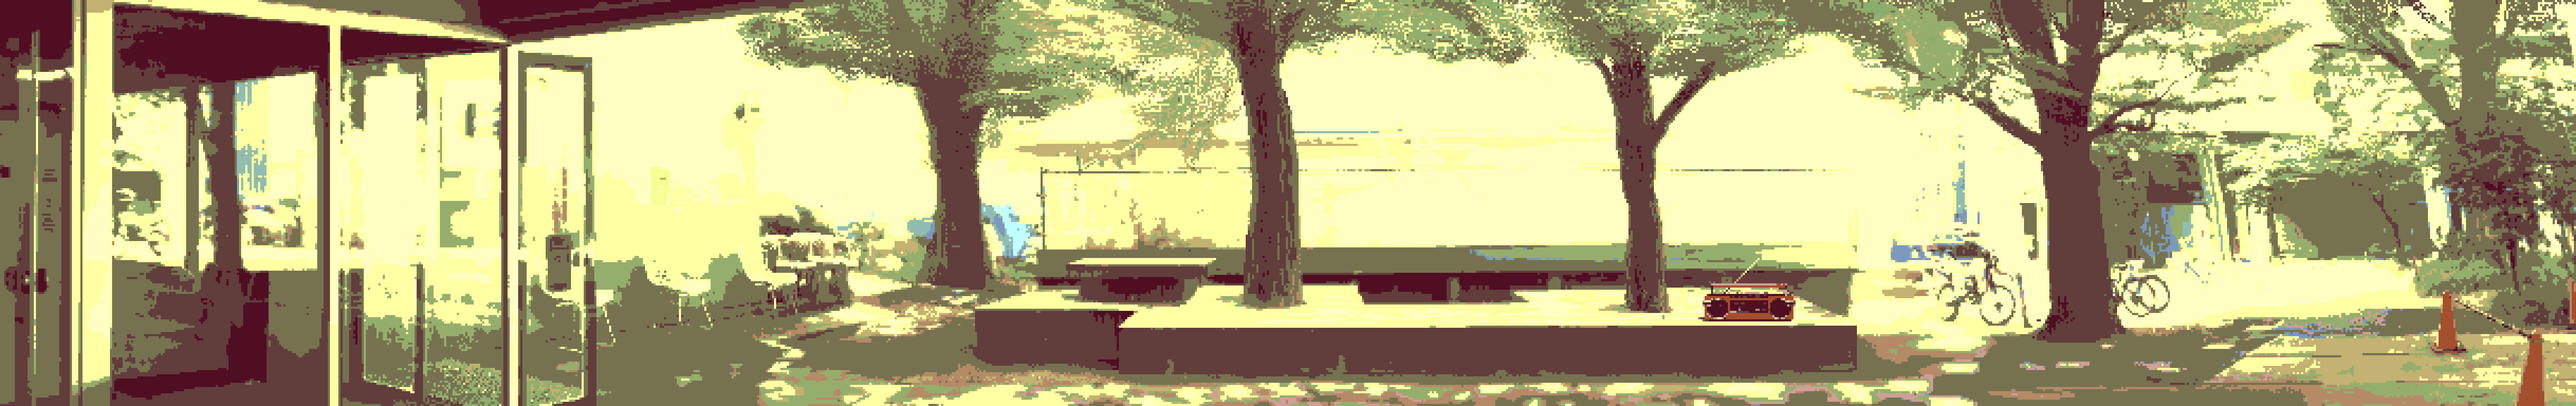
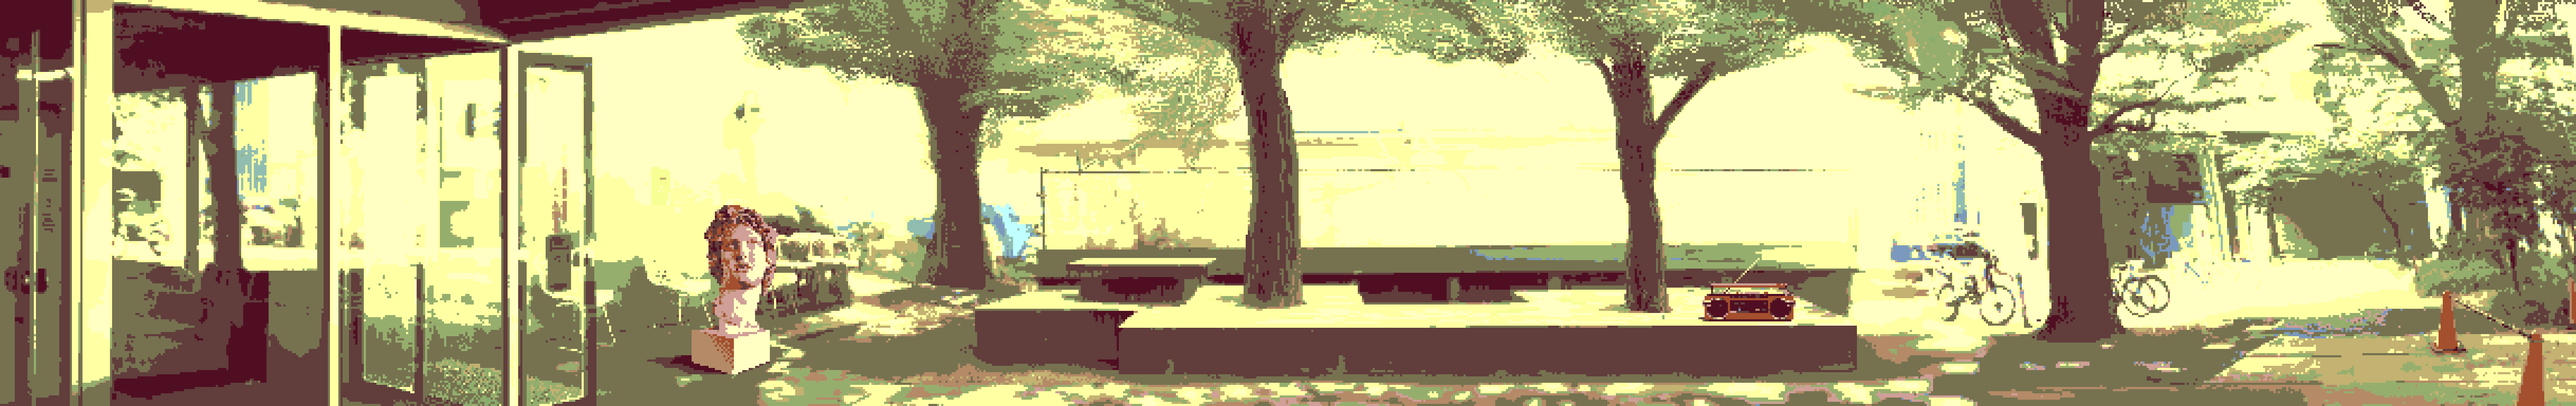
'helios'

Changed region(s): [[0.2496, 0.5, 0.312, 0.9375]]

diff --git a/static/game.js b/static/game.js
@@ -73,11 +73,10 @@ let textcolor = "rgb(118,114,80)";
 //let textcolor = "rgb(176,104,76)";
 let textfont = '40px misaki2';
 let margin = 60;
-let oneline = 6;
+let oneline = 6.5;
 let num, len, lines, chr;
 let bufferSize = 0;
 let buffer = '';
-let chatarray = [];
 
 let ChatWriter = function (player) {
     if (player.msg === '') {return}
@@ -89,28 +88,52 @@ let ChatWriter = function (player) {
 
     len = player.msg.length;
     lines = Math.ceil(len / oneline);
-    for (let i = 0 ,bufferLength = 0; i < len; i++) {
+    let chatarray = [];
+    let lineSizeArray = [];
+    //全文字の繰り返し処理
+    for (let i = 0, buffer_i = 0; i < len; i++) {
         buffer += player.msg.charAt(i);
-        chr = buffer.charCodeAt(bufferLength);
-        if ((chr >= 0x00 && chr < 0x81) ||
-            (chr === 0xf8f0) ||
-            (chr >= 0xff61 && chr < 0xffa0) ||
-            (chr >= 0xf8f1 && chr < 0xf8f4)) {
-            //半角文字の場合は0.5を加算
-            bufferSize += 0.5;
+        chr = buffer.charCodeAt(buffer_i);
+        //---------------------------
+        //エスケープシーケンス
+        if (chr === 92 && player.msg.charAt(i+1) === 'n') {
+            i++;
+            buffer = buffer.slice(0, -1);
+            //if (buffer !== '') {
+                buffer = SpaceCut(buffer);
+                lineSizeArray.push(bufferSize);
+                chatarray.push(buffer);
+                buffer = '';
+                bufferSize = 0;
+                buffer_i = 0;
+            //}
         } else {
-            //それ以外の文字の場合は1を加算
-            bufferSize += 1.0;
+            //---------------------------
+            if ((chr >= 0x00 && chr < 0x81) ||
+                (chr === 0xf8f0) ||
+                (chr >= 0xff61 && chr < 0xffa0) ||
+                (chr >= 0xf8f1 && chr < 0xf8f4)) {
+                //半角文字の場合は0.5を加算
+                bufferSize += 0.5;
+            } else {
+                //それ以外の文字の場合は1を加算
+                bufferSize += 1.0;
+            }
+            buffer_i++;
+            //改行処理
+            if (bufferSize >= oneline && i !== len - 1) {
+                buffer = SpaceCut(buffer);
+                lineSizeArray.push(bufferSize);
+                chatarray.push(buffer);
+                buffer = '';
+                bufferSize = 0;
+                buffer_i = 0;
+            }
         }
-        bufferLength++
-        if (bufferSize >= oneline && i !== len - 1) {
-            chatarray.push(buffer);
-            buffer = '';
-            bufferSize = 0;
-            bufferLength = 0;
-        }
-        
     }
+    //最後の一行
+    buffer = SpaceCut(buffer);
+    lineSizeArray.push(bufferSize);
     chatarray.push(buffer);
     buffer = '';
     bufferSize = 0;
@@ -121,9 +144,31 @@ let ChatWriter = function (player) {
     context.drawImage(chatboxUnder, num + DisplayCenter - (oneline * 20) -20, player.y - margin -30 -5 + textfloater);
 
     for (let i = 0; i < chatarray.length; i++) {
-        context.fillText(chatarray[i], num + DisplayCenter - oneline * 20, player.y - margin + DisplayTop - (chatarray.length - i) * 40 + textfloater);
+        //console.log(lineSizeArray[i]);
+        context.fillText(chatarray[i], num + DisplayCenter - lineSizeArray[i] * 20, player.y - margin + DisplayTop - (chatarray.length - i) * 40 + textfloater);
     }
     chatarray = [];
+}
+
+let SpaceCut= function (str) {
+    if (str.slice(-1) === ' ') {//末尾
+        str = str.slice(0, -1);
+        bufferSize -= 0.5;
+        return SpaceCut(str);
+    } else if (str.slice(-1) === '　') {
+        str = str.slice(0, -1);
+        bufferSize -= 1.0;
+        return SpaceCut(str);
+    } else if (str.slice(0, 1) === ' ') {//先頭
+        str = str.slice(1);
+        bufferSize -= 0.5;
+        return SpaceCut(str);
+    } else if (str.slice(0, 1) === ' ') {
+        str = str.slice(1);
+        bufferSize -= 1.0;
+        return SpaceCut(str);
+    }
+    return str;
 }
 
 let NameWriter = function (player) {
@@ -165,6 +210,7 @@ let isDone = false;
 socket.on('musicresponse', function (list, name) {
     playList = list;
     whoserequest = name;
+    radioPageUpdate();
     console.log(list);
 });
 
@@ -225,17 +271,17 @@ function onPlayerStateChange(event) {
         radioObject.msg = "Next No." + nextNumber+1;
     }
     if (event.data == YT.PlayerState.BUFFERING) {
-        radioObject.msg = "  LOADING..";
+        radioObject.msg = "LOADING..";
     }
     if (event.data == YT.PlayerState.CUED) {
-        radioObject.msg = "    READY";
+        radioObject.msg = "READY";
     }
     if (event.data == YT.PlayerState.PLAYING) {
         radioObject.msg = "♪♪♪♪♪♪";
         isPlaying = true;
     }
     if (event.data == YT.PlayerState.PAUSED) {
-        radioObject.msg = "    PAUSE";
+        radioObject.msg = "PAUSED";
     }
 }
 
@@ -306,14 +352,33 @@ $('#select').click(function () {
             return;
     }
 });
-
+//------------------------------
+//         ヘリオス像
+//------------------------------
+let helios = {
+    x: 0,
+    y: 540,
+    msg: 'Welcome to\\nSmoking Cyber Space!',
+}
+let heliosOK = function () {
+    if (-130 < myplayerpos && myplayerpos < 130) return true;
+    else if (-425 === myplayerpos) {
+        helios.msg = 'There is no\\nway.'
+        return true;
+    }
+    else if (-420 === myplayerpos) {
+        helios.msg = 'Welcome to\\nSmoking Cyber Space!';
+        return false;
+    }
+    else return false;
+}
 //-------------------------------
 //       ラジオオブジェクト
 //-------------------------------
 let radioObject = {
     x: 795,
     y: 650,
-    msg: ' Press A key',
+    msg: 'Press B key',
     Pages: 1,
 }
 let whatPlaying = function () {
@@ -328,15 +393,20 @@ let radioOK = function () {
     if (680 < myplayerpos && myplayerpos < 910) return true;
     else return false;
 }
+let radioPageUpdate = function () {
+    if (radioObject.Pages === 2)
+        radioObject.msg = "There are " + playList.length + "\\nrequests this week.Play with START key.";
+}
+
 let radioMessenger = function () {
     switch (radioObject.Pages) {
         case 1: {
-            radioObject.msg = "There are " + playList.length + " requests this week.Play with START key.";
+            radioObject.msg = "There are " + playList.length + "\\nrequests this week.Play with START key.";
             radioObject.Pages++;
         } break;
         case 2: {
            // if (isSmartPhone()) {
-                radioObject.msg = "Change the number with SELECT key.";
+                radioObject.msg = "Change the\\nnumber with\\nSELECT key.";
                 radioObject.Pages++;
            // } else {
            //     radioObject.msg = "Play & Pausewith SELECT key.";
@@ -344,7 +414,7 @@ let radioMessenger = function () {
            // }
         } break;
         case 3: {
-            radioObject.msg = "You can request music bysending YouTube URL.";
+            radioObject.msg = "You can\\nrequest music by sending\\nYouTube URL.";
             radioObject.Pages++;
             //if (isSmartPhone()) radioObject.Pages = 5;
         } break;
@@ -384,6 +454,8 @@ socket.on('state', function (players, ) {
             context.fillStyle = textcolor;
             if (isPlaying) ChatWriter(whatPlaying());
             if (radioOK() || isDone) ChatWriter(radioObject);
+            if (heliosOK()) ChatWriter(helios);
+            //ここからプレイヤー
             ChatWriter(player);
             NameWriter(player);
             //自プレイヤーを描画
@@ -393,7 +465,7 @@ socket.on('state', function (players, ) {
             SmokeDrawer(player);
             context.restore();
         }
-        // console.log(player.x);
+        //console.log(player.x);
     });
     //他プレイヤー
     Object.values(players).forEach((player) => {
@@ -476,14 +548,14 @@ $(document).on('keydown keyup', (event) => {
         socket.emit('movement', movement, isMove);
     }
     if (event.key === 'a' && event.type === 'keydown' && INPUTS.indexOf(event.target.tagName) == -1) {
+        socket.emit('smoke');
+    }
+    if (event.key === 'b' && event.type === 'keydown' && INPUTS.indexOf(event.target.tagName) == -1) {
         if (radioOK()) {
             radioMessenger();
         } else {
-            socket.emit('smoke');
+            socket.emit('smokeend');
         }
-    }
-    if (event.key === 'b' && event.type === 'keydown' && INPUTS.indexOf(event.target.tagName) == -1) {
-        socket.emit('smokeend');
     }
 });
 
@@ -555,16 +627,16 @@ R.addEventListener(eventLeave, e => {
 });
 
 $('#A').click(function () {
-    if (radioOK()) {
-        radioMessenger();
-    } else {
         socket.emit('smoke');
-    }
 });
 
 
 $('#B').click(function () {
-    socket.emit('smokeend');
+    if (radioOK()) {
+        radioMessenger();
+    } else {
+        socket.emit('smokeend');
+    }
 });
 
 //----------------------------

diff --git a/server.js b/server.js
@@ -74,7 +74,7 @@ class Player extends GameObject {
         else { this.nickname = obj.nickname;}
         this.width = 480;
         this.height = 480;
-        this.x = 0;
+        this.x = -70;
         this.y = 480;
         this.angle = 1;
         this.frameX = 0;
